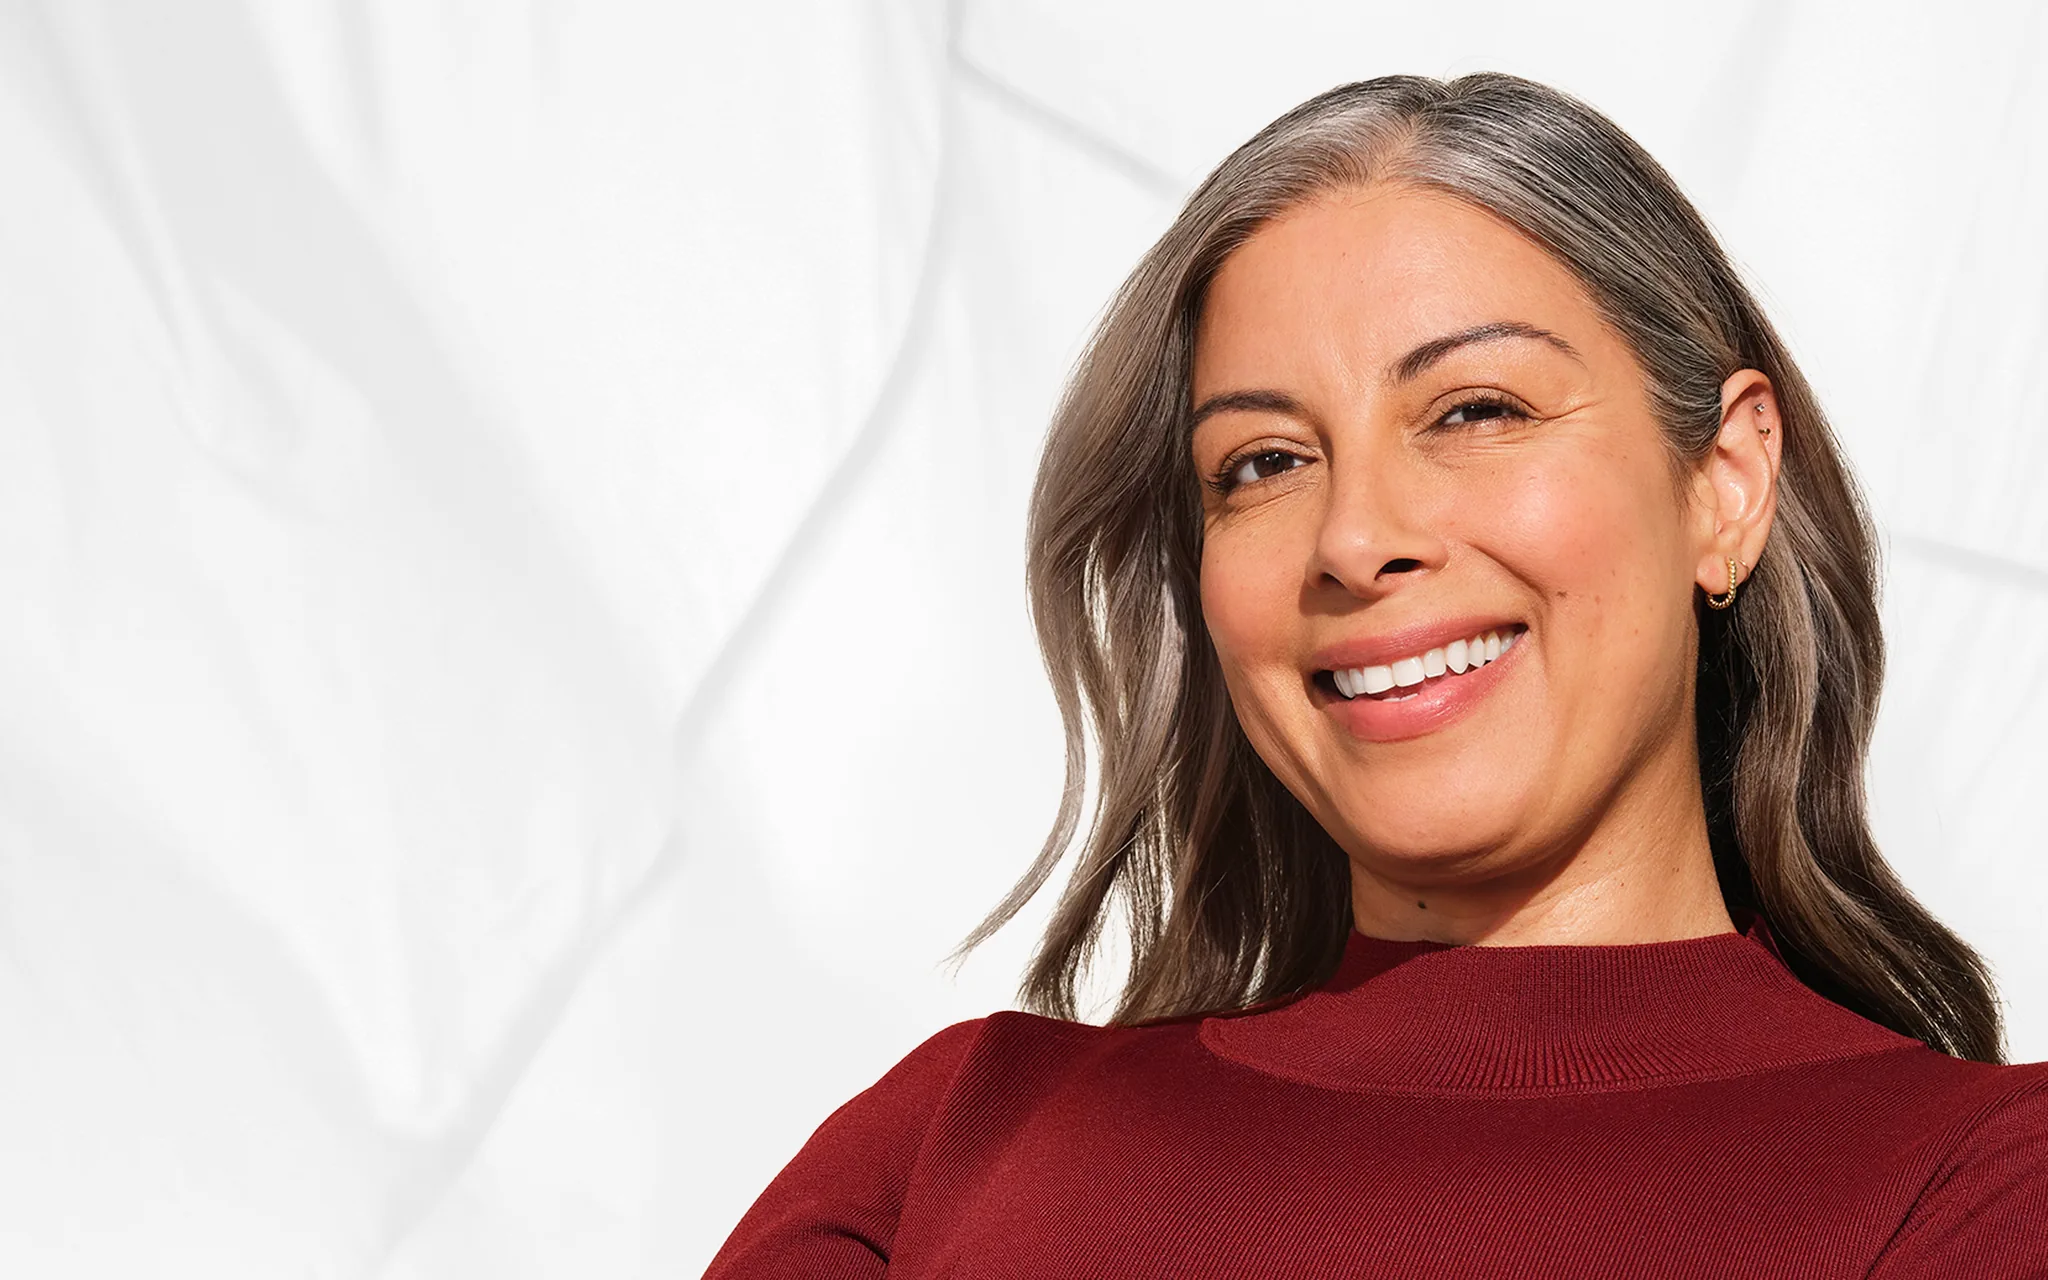
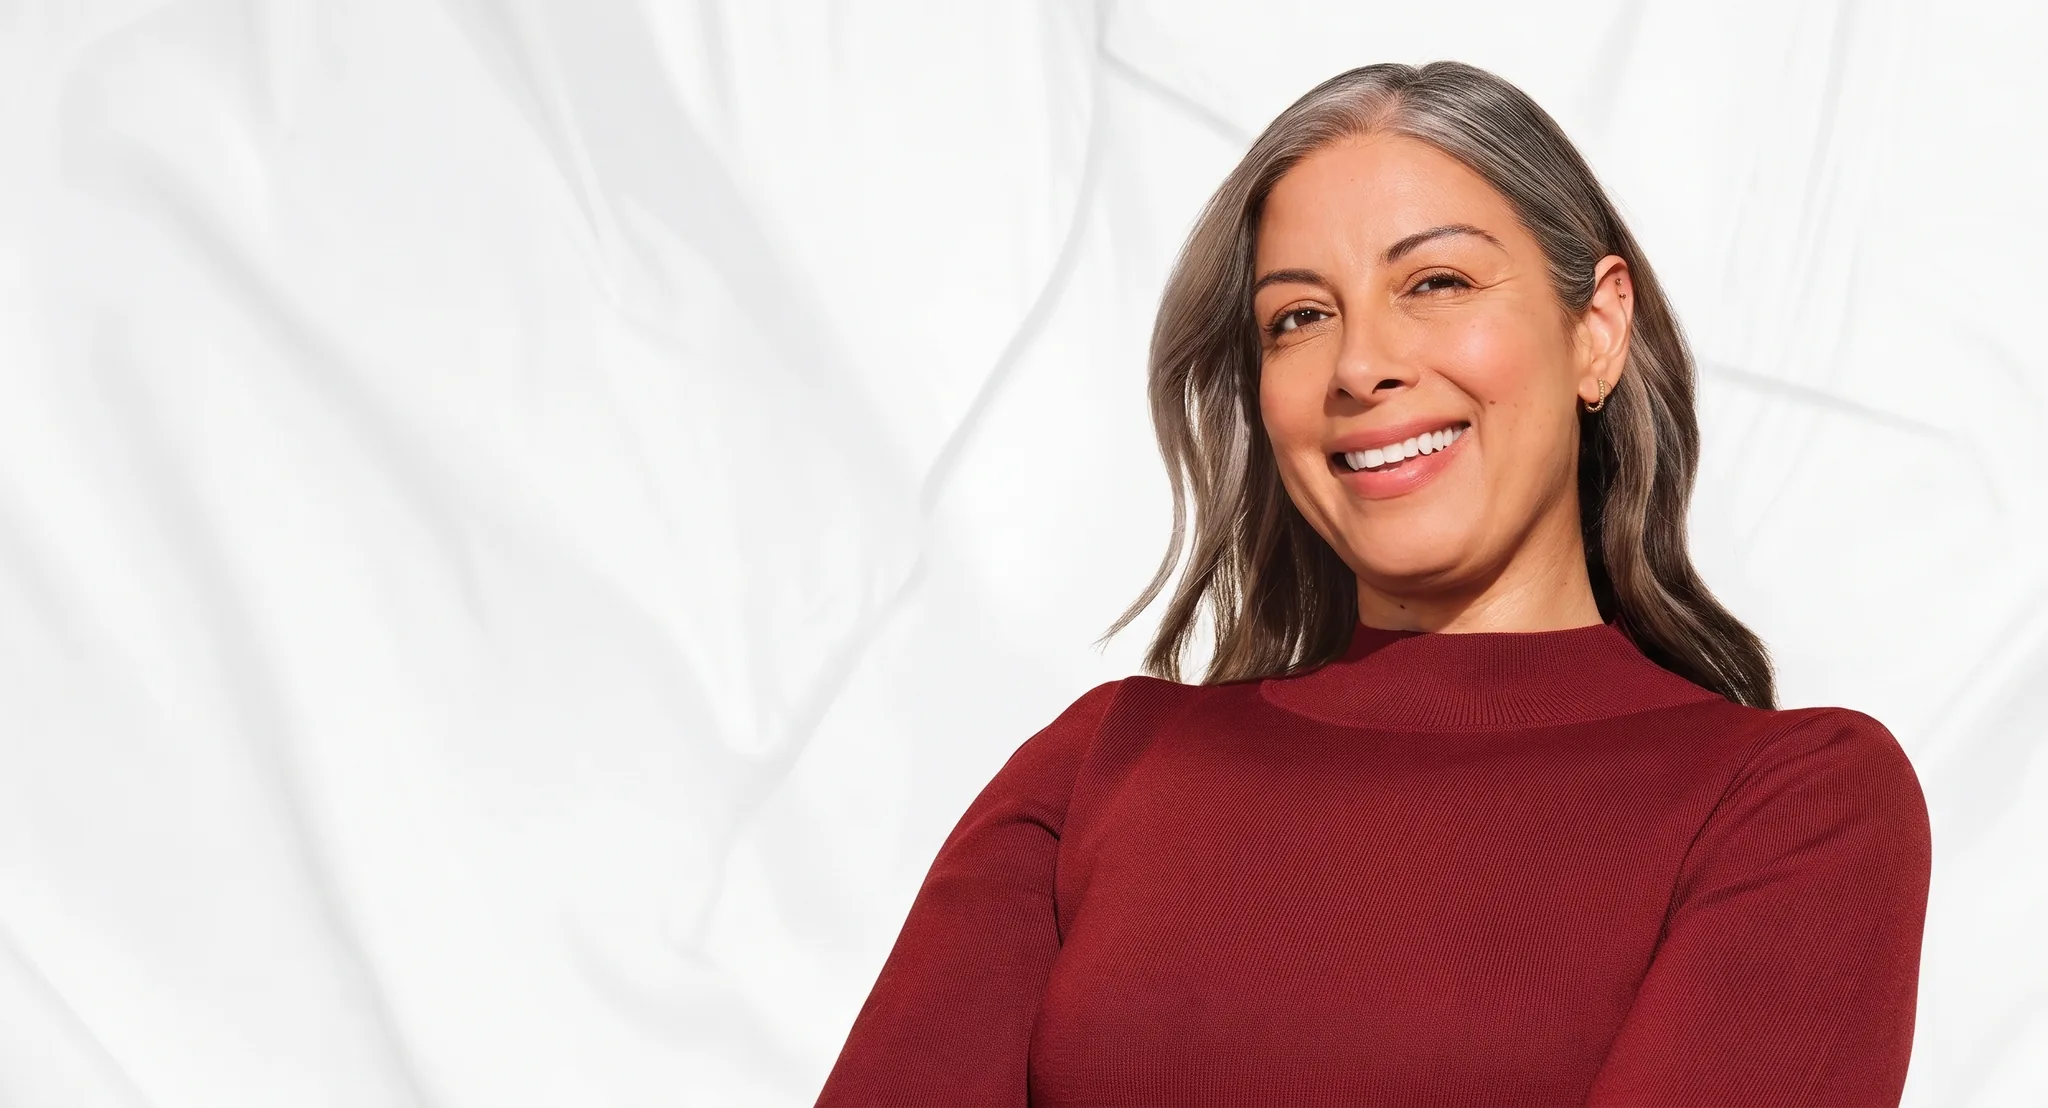
Hormone Therapy hero: reposition the photo, remove the seam
Blake: 'she's a little too far to the right'. On a 2000px screen the photo
was pinned to the screen edge, her hair ran off it, and the photo's left edge
met the flat ground at a visible seam.

- Outpainted the (mirrored) photo with Higgsfield to add fabric around her,
  then cropped so she sits ~68% across with fabric past her right shoulder.
- The photo is now placed relative to the copy column (--hr-col - 40px), so
  her arm starts just past the copy and her face stays fully on screen from
  1280px to 2000px+. Both edges fade on fabric via a mask, so no seam.
- The background wash stops where the copy stops instead of at 52% of the
  screen, so it no longer ghosts her arm.

diff --git a/_build/pages/hormone-therapy.css b/_build/pages/hormone-therapy.css
@@ -34,21 +34,26 @@
    and the photo meet with no visible seam. */
 .hr-hero { --hr-ground: #f1f1f1;
            position: relative; isolation: isolate; background: var(--hr-ground);
-           overflow: hidden; min-height: 640px; display: flex; align-items: center; }
-/* Sized to the hero's HEIGHT and pinned right, not stretched to its width:
-   on a wide screen, width-fitting blew her face up and cropped her chin. Any
-   gap on the left is the section's own cream, which matches the photo's. */
-.hr-hero-bg { position: absolute; top: 0; right: 0; bottom: 0; left: auto; z-index: -1;
+           overflow: hidden; min-height: 760px; display: flex; align-items: center; }
+/* Placed relative to the COPY, not the screen edge. --hr-col is where the
+   content column starts at any width; the photo starts 40px before it. At the
+   hero's ~836px height the photo is ~1,545px wide, so her near arm (41% in)
+   lands just past the copy block and her face (68% in) stays fully on screen
+   from 1,280px up to 2,000px+. Checked at 1280/1440/1680/2000. The photo was mirrored and outpainted with fabric around
+   her (Higgsfield, 2026-09-18), so both edges it fades on are fabric. */
+.hr-hero { --hr-col: max(var(--apex-gutter), calc((100% - var(--apex-max)) / 2 + var(--apex-gutter))); }
+.hr-hero-bg { position: absolute; top: 0; bottom: 0; z-index: -1;
+              left: calc(var(--hr-col) - 40px); right: auto;
               height: 100%; width: auto; max-width: none;
-              object-fit: cover; object-position: right top; }
-/* Her hair starts 6% below the top of the frame, so the crop always comes off
-   the bottom, never the top. The wash only reinforces the cream behind the
-   copy; it clears before it reaches her. */
+              -webkit-mask-image: linear-gradient(90deg, transparent 0%, #000 22%, #000 95%, transparent 100%);
+                      mask-image: linear-gradient(90deg, transparent 0%, #000 22%, #000 95%, transparent 100%); }
+/* the wash only backs the copy block and stops before her arm begins */
 .hr-hero::after { content: ""; position: absolute; inset: 0; z-index: -1;
-                  background: linear-gradient(90deg, rgba(241,241,241,.92) 0%,
-                              rgba(241,241,241,.78) 30%, rgba(241,241,241,0) 52%); }
+                  background: linear-gradient(90deg, rgba(241,241,241,.94) 0%,
+                              rgba(241,241,241,.8) calc(var(--hr-col) + 420px),
+                              rgba(241,241,241,0) calc(var(--hr-col) + 600px)); }
 .hr-hero-in { max-width: var(--apex-max); margin: 0 auto; width: 100%;
-              padding: 96px var(--apex-gutter); }
+              padding: 72px var(--apex-gutter); }
 .hr-hero-copy { max-width: 580px; }
 .hr-hero h1 { margin: 18px 0 18px; color: var(--apex-ink); font-weight: 900;
               font-size: clamp(32px, 4vw, 52px); line-height: 1.05;
@@ -227,9 +232,10 @@
   /* Below 1100px the copy would run across her face. Stack instead: the photo
      is its own band (cropped in on her), the copy follows on the same ground. */
   .hr-hero { display: block; min-height: 0; }
-  .hr-hero-bg { position: relative; inset: auto; z-index: 0; display: block;
+  .hr-hero-bg { position: relative; inset: auto; left: auto; z-index: 0; display: block;
                 width: 100%; height: auto; max-width: 100%;
-                aspect-ratio: 2 / 1; object-position: 86% 12%; }
+                aspect-ratio: 2 / 1; object-position: 76% top;
+                -webkit-mask-image: none; mask-image: none; }
   .hr-hero::after { display: none; }
   .hr-hero-in { padding: 36px var(--apex-gutter) 64px; }
   .hr-hero-copy { max-width: 680px; }
@@ -245,7 +251,7 @@
   .hr-benefits, .hr-timeline { grid-template-columns: 1fr; }
   .hr-benefit-figs { grid-template-columns: 1fr; }
   /* phone: a squarer crop so her face fills the band */
-  .hr-hero-bg { aspect-ratio: 1 / 1; object-position: 80% top; }
+  .hr-hero-bg { aspect-ratio: 1 / 1; object-position: 70% top; }
   .hr-hero-in { padding: 28px var(--apex-gutter) 52px; }
   .hr-hero-trust { grid-template-columns: 1fr; }
   .hr-hero-offer { padding: 18px; }

diff --git a/site/assets/css/hormone-therapy.css b/site/assets/css/hormone-therapy.css
@@ -34,21 +34,26 @@
    and the photo meet with no visible seam. */
 .hr-hero { --hr-ground: #f1f1f1;
            position: relative; isolation: isolate; background: var(--hr-ground);
-           overflow: hidden; min-height: 640px; display: flex; align-items: center; }
-/* Sized to the hero's HEIGHT and pinned right, not stretched to its width:
-   on a wide screen, width-fitting blew her face up and cropped her chin. Any
-   gap on the left is the section's own cream, which matches the photo's. */
-.hr-hero-bg { position: absolute; top: 0; right: 0; bottom: 0; left: auto; z-index: -1;
+           overflow: hidden; min-height: 760px; display: flex; align-items: center; }
+/* Placed relative to the COPY, not the screen edge. --hr-col is where the
+   content column starts at any width; the photo starts 40px before it. At the
+   hero's ~836px height the photo is ~1,545px wide, so her near arm (41% in)
+   lands just past the copy block and her face (68% in) stays fully on screen
+   from 1,280px up to 2,000px+. Checked at 1280/1440/1680/2000. The photo was mirrored and outpainted with fabric around
+   her (Higgsfield, 2026-09-18), so both edges it fades on are fabric. */
+.hr-hero { --hr-col: max(var(--apex-gutter), calc((100% - var(--apex-max)) / 2 + var(--apex-gutter))); }
+.hr-hero-bg { position: absolute; top: 0; bottom: 0; z-index: -1;
+              left: calc(var(--hr-col) - 40px); right: auto;
               height: 100%; width: auto; max-width: none;
-              object-fit: cover; object-position: right top; }
-/* Her hair starts 6% below the top of the frame, so the crop always comes off
-   the bottom, never the top. The wash only reinforces the cream behind the
-   copy; it clears before it reaches her. */
+              -webkit-mask-image: linear-gradient(90deg, transparent 0%, #000 22%, #000 95%, transparent 100%);
+                      mask-image: linear-gradient(90deg, transparent 0%, #000 22%, #000 95%, transparent 100%); }
+/* the wash only backs the copy block and stops before her arm begins */
 .hr-hero::after { content: ""; position: absolute; inset: 0; z-index: -1;
-                  background: linear-gradient(90deg, rgba(241,241,241,.92) 0%,
-                              rgba(241,241,241,.78) 30%, rgba(241,241,241,0) 52%); }
+                  background: linear-gradient(90deg, rgba(241,241,241,.94) 0%,
+                              rgba(241,241,241,.8) calc(var(--hr-col) + 420px),
+                              rgba(241,241,241,0) calc(var(--hr-col) + 600px)); }
 .hr-hero-in { max-width: var(--apex-max); margin: 0 auto; width: 100%;
-              padding: 96px var(--apex-gutter); }
+              padding: 72px var(--apex-gutter); }
 .hr-hero-copy { max-width: 580px; }
 .hr-hero h1 { margin: 18px 0 18px; color: var(--apex-ink); font-weight: 900;
               font-size: clamp(32px, 4vw, 52px); line-height: 1.05;
@@ -227,9 +232,10 @@
   /* Below 1100px the copy would run across her face. Stack instead: the photo
      is its own band (cropped in on her), the copy follows on the same ground. */
   .hr-hero { display: block; min-height: 0; }
-  .hr-hero-bg { position: relative; inset: auto; z-index: 0; display: block;
+  .hr-hero-bg { position: relative; inset: auto; left: auto; z-index: 0; display: block;
                 width: 100%; height: auto; max-width: 100%;
-                aspect-ratio: 2 / 1; object-position: 86% 12%; }
+                aspect-ratio: 2 / 1; object-position: 76% top;
+                -webkit-mask-image: none; mask-image: none; }
   .hr-hero::after { display: none; }
   .hr-hero-in { padding: 36px var(--apex-gutter) 64px; }
   .hr-hero-copy { max-width: 680px; }
@@ -245,7 +251,7 @@
   .hr-benefits, .hr-timeline { grid-template-columns: 1fr; }
   .hr-benefit-figs { grid-template-columns: 1fr; }
   /* phone: a squarer crop so her face fills the band */
-  .hr-hero-bg { aspect-ratio: 1 / 1; object-position: 80% top; }
+  .hr-hero-bg { aspect-ratio: 1 / 1; object-position: 70% top; }
   .hr-hero-in { padding: 28px var(--apex-gutter) 52px; }
   .hr-hero-trust { grid-template-columns: 1fr; }
   .hr-hero-offer { padding: 18px; }

diff --git a/site/hormone-therapy.html b/site/hormone-therapy.html
@@ -24,7 +24,7 @@
 <link rel="preconnect" href="https://fonts.gstatic.com" crossorigin>
 <link href="https://fonts.googleapis.com/css2?family=Archivo:wght@400;500;600;700;800;900&family=JetBrains+Mono:wght@500;600;800&family=Playfair+Display:wght@700;900&display=swap" rel="stylesheet">
 <link rel="stylesheet" href="/assets/css/apex.css?v=d6176091">
-<link rel="stylesheet" href="/assets/css/hormone-therapy.css?v=e20a9aee">
+<link rel="stylesheet" href="/assets/css/hormone-therapy.css?v=f5054aa3">
 </head>
 <body>
 <a class="skip" href="#main">Skip to content</a>
@@ -120,11 +120,13 @@
 <section class="hr-hero">
   <!-- Hero photograph supplied by Blake 2026-09-18 ("pretty woman grey
        background.jpeg"), mirrored left-to-right at his request so she sits on
-       the right facing into the page. Replaces the generated image. Pale grey
+       the right facing into the page, then outpainted with Higgsfield to add
+       fabric around her and cropped so she sits ~68% across the frame.
+       Replaces the generated image. Pale grey
        ground, so the hero is LIGHT: ink copy on the open left half.
        Decorative (empty alt): nothing on the page presents her as a patient. -->
   <img class="hr-hero-bg" src="/assets/images/hormone-therapy/hero-woman.webp"
-       alt="" loading="lazy" decoding="async" width="2048" height="1280">
+       alt="" loading="lazy" decoding="async" width="2048" height="1108">
   <div class="hr-hero-in">
     <div class="hr-hero-copy">
       <div class="hr-kicker">Hormone therapy for women</div>

diff --git a/_build/pages/hormone-therapy.html b/_build/pages/hormone-therapy.html
@@ -34,7 +34,9 @@
 <section class="hr-hero">
   <!-- Hero photograph supplied by Blake 2026-09-18 ("pretty woman grey
        background.jpeg"), mirrored left-to-right at his request so she sits on
-       the right facing into the page. Replaces the generated image. Pale grey
+       the right facing into the page, then outpainted with Higgsfield to add
+       fabric around her and cropped so she sits ~68% across the frame.
+       Replaces the generated image. Pale grey
        ground, so the hero is LIGHT: ink copy on the open left half.
        Decorative (empty alt): nothing on the page presents her as a patient. -->
   <img class="hr-hero-bg" src="/assets/images/hormone-therapy/hero-woman.png"
